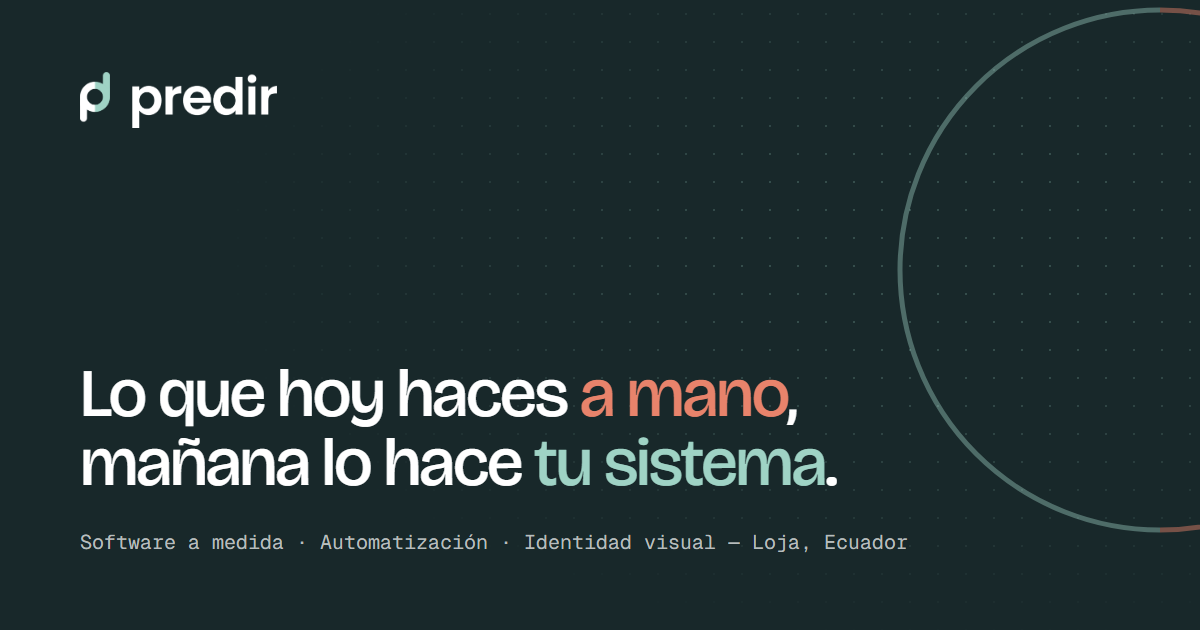
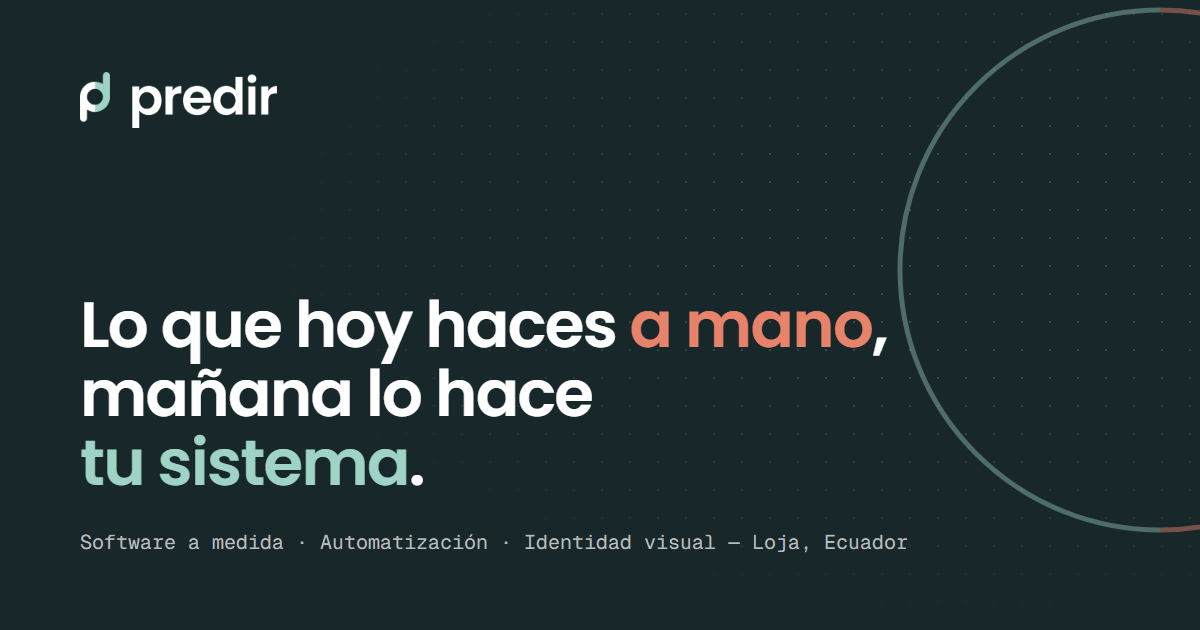
Títulos en Poppins, la familia del logotipo
Reemplaza Bricolage Grotesque por Poppins (500/600) en los títulos,
ajusta el tamaño del h1 para mantener tres líneas, actualiza el manual
de marca y regenera la imagen para redes (og.png).

Changed region(s): [[0.0617, 0.4825, 0.74, 0.7841]]

diff --git a/src/styles/global.css b/src/styles/global.css
@@ -1,4 +1,5 @@
-@import '@fontsource-variable/bricolage-grotesque/opsz.css';
+@import '@fontsource/poppins/latin-500.css';
+@import '@fontsource/poppins/latin-600.css';
 @import '@fontsource-variable/geist/wght.css';
 @import '@fontsource-variable/geist-mono/wght.css';
 @import './tokens.css';
@@ -27,9 +28,8 @@ button, input, select, textarea { font: inherit; color: inherit; }
 :where(h1, h2, h3) {
   font-family: var(--f-display);
   font-weight: 500;
-  font-optical-sizing: auto;
-  line-height: 1.04;
-  letter-spacing: -0.025em;
+  line-height: 1.1;
+  letter-spacing: -0.02em;
   text-wrap: balance;
 }
 h2 { font-size: var(--t-h2); }

diff --git a/src/styles/tokens.css b/src/styles/tokens.css
@@ -24,7 +24,7 @@
   --c-texto-osc-suave: color-mix(in oklab, var(--c-blanco) 72%, var(--c-tinta));
 
   /* — Tipografía — */
-  --f-display: 'Bricolage Grotesque Variable', 'Segoe UI', system-ui, sans-serif;
+  --f-display: 'Poppins', 'Segoe UI', system-ui, sans-serif; /* misma familia que el logotipo "predir" */
   --f-texto: 'Geist Variable', 'Segoe UI', system-ui, sans-serif;
   --f-mono: 'Geist Mono Variable', ui-monospace, 'Cascadia Mono', monospace;
 
